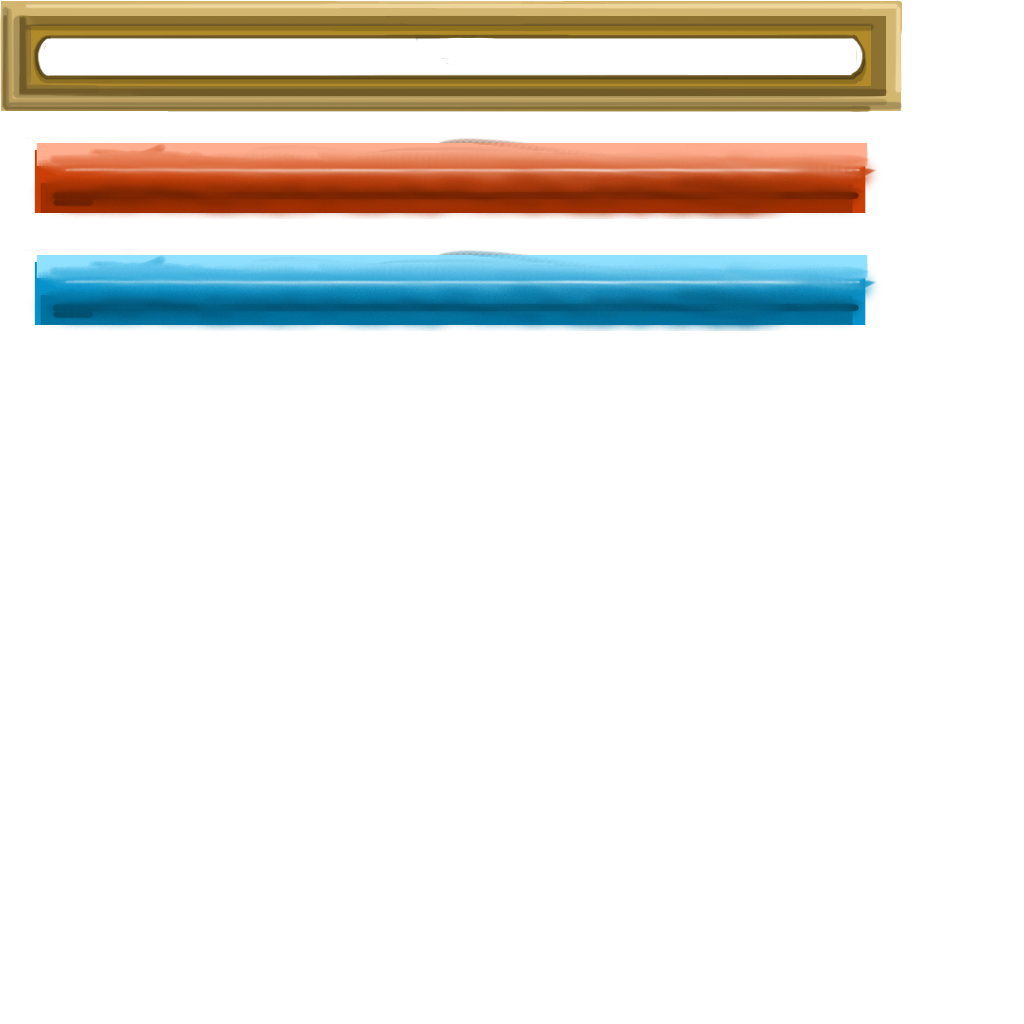
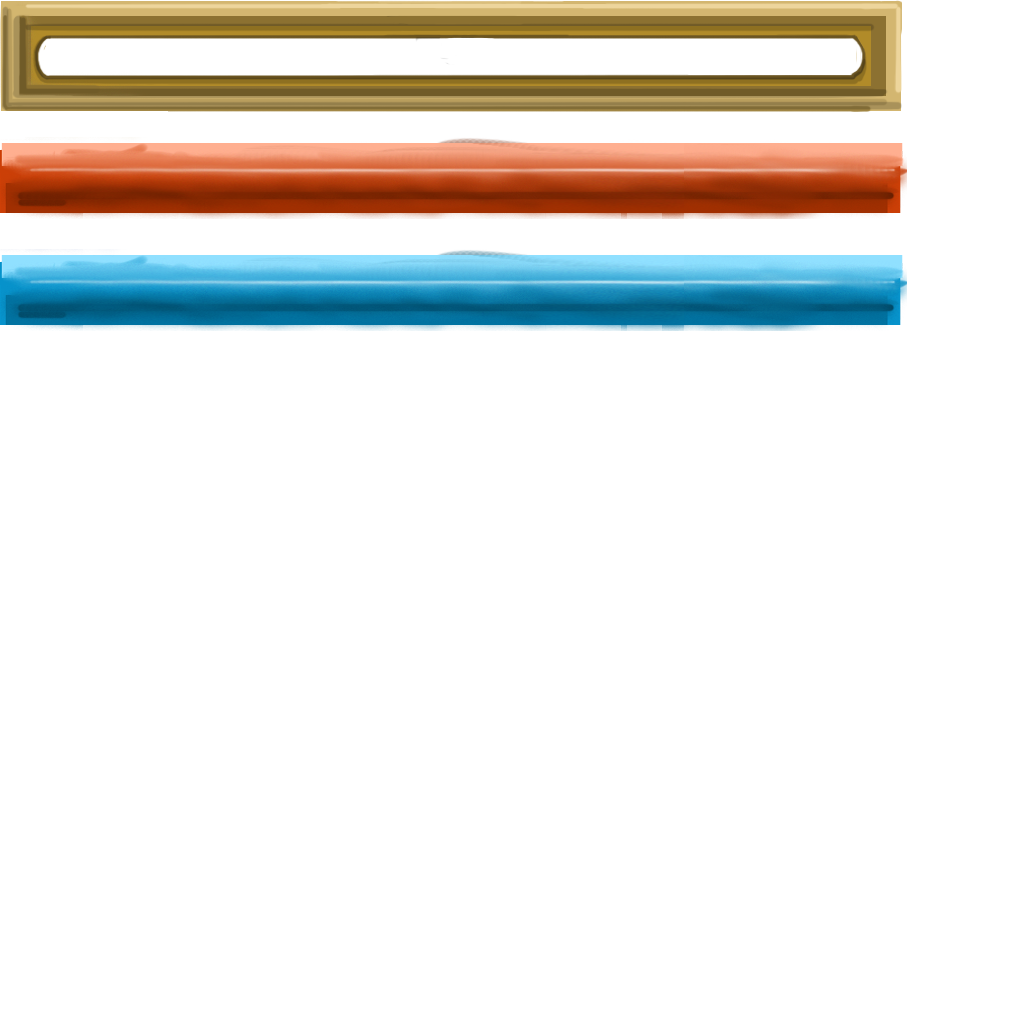
fixed mana bar placement on the screen

diff --git a/capstone-game-cpp/UI/SkillBar.cpp b/capstone-game-cpp/UI/SkillBar.cpp
@@ -65,7 +65,7 @@ void SkillBar::RenderManaBar()
 {
 	auto posYPerc = 0.95f;
 	for each (Ghost& ghost in Factory<Ghost>()) {
-		mSpriteManager->DrawSprite(SPRITESHEET_BARS, 2, mSpriteManager->perc2f(0.5f, posYPerc), vec2f(450, 56), vec4f(1, 1, 1, 1), vec2f(ghost.GetManaPerc(), 1));
+		mSpriteManager->DrawSprite(SPRITESHEET_BARS, 2, mSpriteManager->perc2f(0.5f, posYPerc), vec2f(410, 56), vec4f(1, 1, 1, 1), vec2f(ghost.GetManaPerc(), 1));
 		mSpriteManager->DrawSprite(SPRITESHEET_BARS, 0, mSpriteManager->perc2f(0.5f, posYPerc), vec2f(450, 56));
 	}
 }
